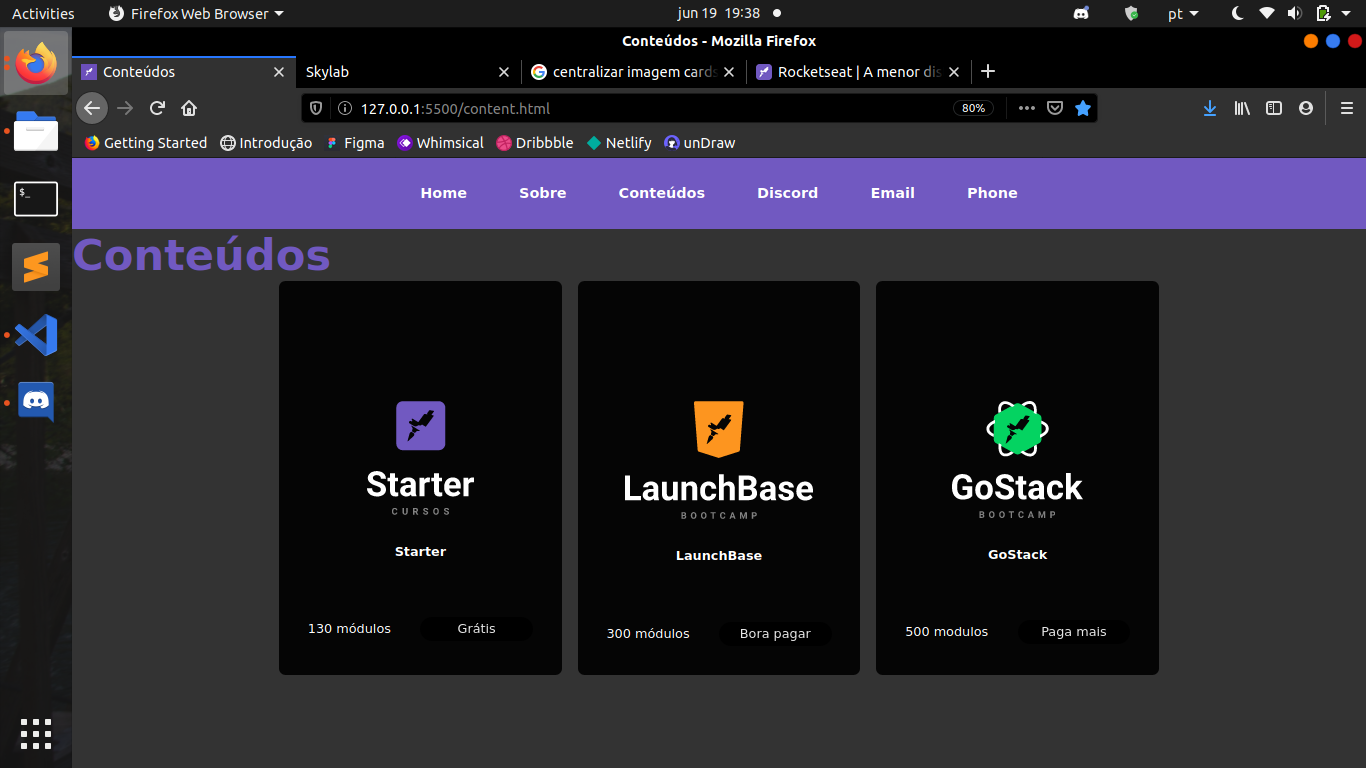
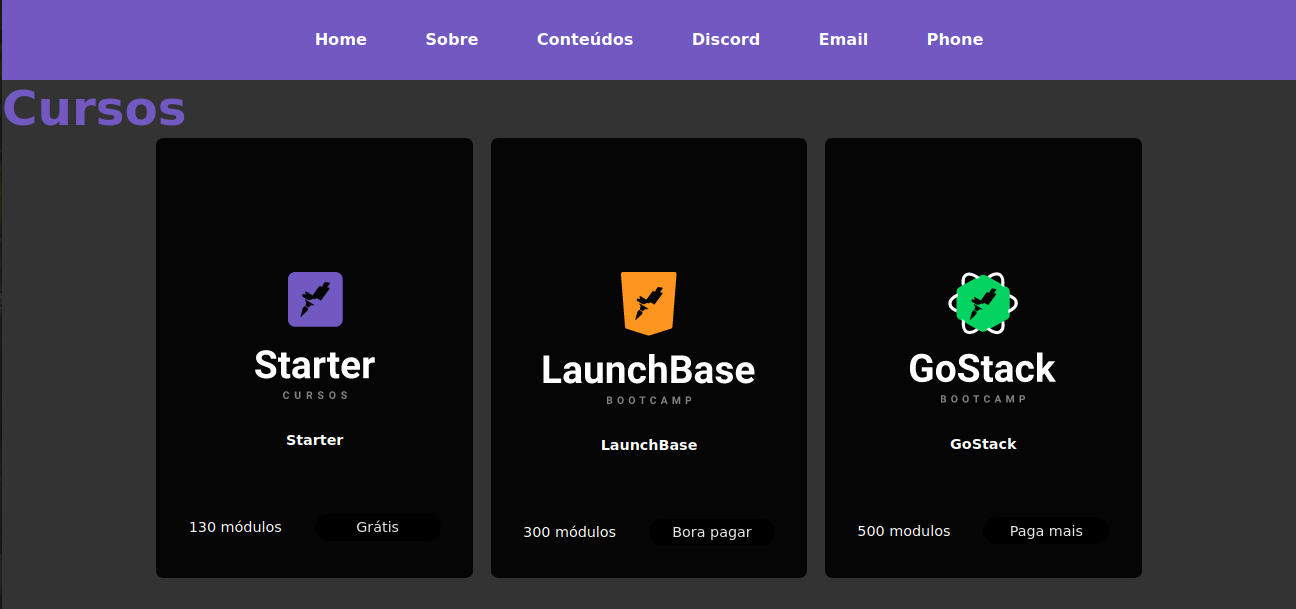
challenge2.3

diff --git a/content.html b/content.html
@@ -4,6 +4,7 @@
         <meta name="viewport" content="width=device-width, initial-scale=1.0">
         <title>Conteúdos</title>
         <link rel="icon" href="assets/favicon.ico" type="image/x-icon"/>
+        <link href="https://fonts.googleapis.com/icon?family=Material+Icons" rel="stylesheet">
         <link rel="stylesheet" href="style.css">
     </head>
     <body>
@@ -21,11 +22,11 @@
         </header>
 
         <div id="index">
-            <h1>Conteúdos</h1>
+            <h1>Cursos</h1>
         </div>
 
         <section class="cards">
-            <div class="card">
+            <div class="card" id="starter">
                 <div class="card_image-container">
                     <img src="https://skylab.rocketseat.com.br/static/media/Starter.64c237cc.svg" alt="Logo">
                 </div>
@@ -38,7 +39,7 @@
                 </div>
             </div>
 
-            <div class="card">
+            <div class="card" id="launchbase">
                 <div class="card_image-container">
                     <img class="img_starter" src="https://skylab.rocketseat.com.br/static/media/LaunchBase.08285320.svg" alt="Logo">
                 </div>
@@ -51,7 +52,7 @@
                 </div>
             </div>
 
-            <div class="card">
+            <div class="card" id="gostack">
                 <div class="card_image-container">
                     <img src="https://skylab.rocketseat.com.br/static/media/GoStack.83a178a0.svg" alt="Logo">
                 </div>
@@ -64,6 +65,24 @@
                 </div>
             </div>
         </section>
+
+        <div class="modal-overlay">
+            <div class="modal">
+
+                <a class="maximize">
+                    <i class="material-icons">fullscreen</i>
+                </a>
+                <a class="close-modal">
+                    <i class="material-icons">close</i>
+                </a>
+
+                <div class="modal-content">
+                        <iframe src="" frameborder="0"></iframe>
+                </div>
+            </div>
+        </div>
+
+    <script src="scripts.js"></script>
 
     </body>
 </html>

diff --git a/scripts.js b/scripts.js
@@ -1,0 +1,25 @@
+const modalOverlay = document.querySelector('.modal-overlay')
+const modal = document.querySelector('.modal')
+const cards = document.querySelectorAll('.card')
+
+for (let card of cards) {
+    card.addEventListener('click', function(){
+        const courseId = card.getAttribute('id');
+        modalOverlay.classList.add('active')
+        modalOverlay.querySelector('iframe').src = `https://rocketseat.com.br/${courseId}`
+    })
+}
+
+document.querySelector('.close-modal').addEventListener('click', function(){
+    modalOverlay.classList.remove('active')
+    modalOverlay.querySelector('iframe').src = ''
+    modal.classList.remove('maximize')
+})
+
+document.querySelector('.maximize').addEventListener('click', function(){
+    if(modal.classList.contains('maximize') === false){
+        modal.classList.add('maximize')
+    } else if (modal.classList.contains('maximize') === true) {
+        modal.classList.remove('maximize')
+    }
+})

diff --git a/style.css b/style.css
@@ -194,3 +194,58 @@ main {
     border-radius: 20px;
     text-align: center;
 }
+
+/* MODAL */
+.modal-overlay {
+    background-color: rgba(0, 0, 0, 0.7);
+    width: 100%;
+    height: 100%;
+    position: fixed;
+    top: 0;
+    opacity: 0;
+    visibility: hidden;
+}
+
+.modal {
+    background-color: white;
+    width: 90%;
+    height: 90%;
+    margin: 5vh auto;
+    position: relative;
+}
+
+.modal .close-modal,
+.modal .maximize {
+    color: black;
+    position: absolute;
+    right: 8px;
+    top: 5px;
+    cursor: pointer;
+}
+
+/* MODAL ACTIVE */
+
+.modal-overlay.active {
+    opacity: 1;
+    visibility: visible;
+}
+
+iframe {
+    width: 100%;
+    height: 90%;
+    position: absolute;
+    top: 5%;
+}
+
+/* MAX MODAL */
+.modal.maximize {
+    background-color: white;
+    width: 100%;
+    height: 100%;
+    position: relative;
+    margin: 0;
+}
+
+.modal .maximize {
+    right: 40px;
+}

diff --git a/index.html b/index.html
@@ -30,7 +30,6 @@
             
                     <strong>Acessar comunidade</strong>
                 </a>
-            </div>
 
         </main>
 

diff --git a/README.md b/README.md
@@ -27,19 +27,21 @@
 
 ## :rocket: Challenges
 
-- First HTML
+- First HTML - Challenge 02:1
   
 <p>
   <img alt="first-html" src="./assets/first-html.png"></img>
 </p>
 
-- Description page
+- Description page - Challenge 02:2
 
 <p>
   <img alt="second-html" src="./assets/second-html.png"></img>
 </p>
 
-- Courses page and iframe (todo: iframe)
+- Courses page and iframe - Challenge 02:3 
+
+https://challenge2-3.netlify.app/
 
 <p>
   <img alt="third-html" src="./assets/third-html.png"></img>
